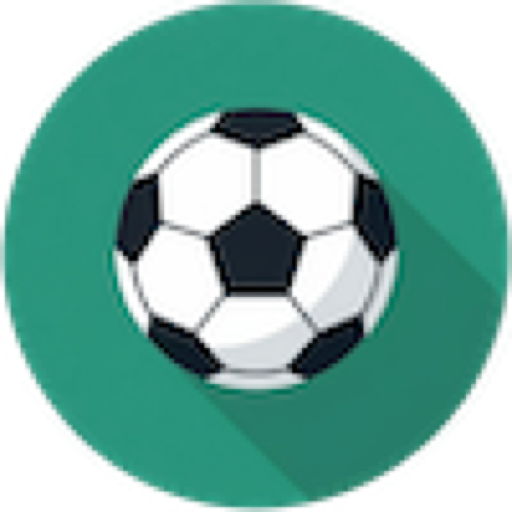
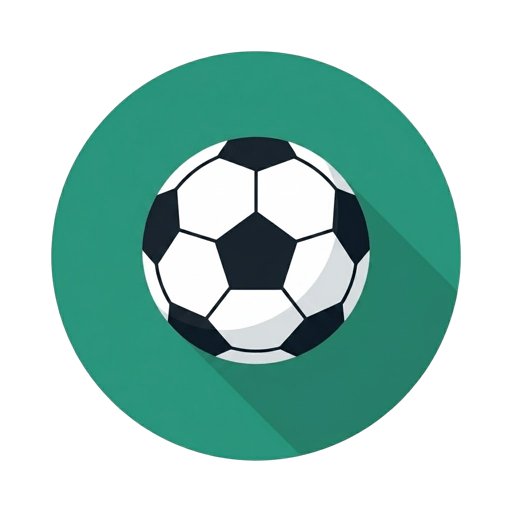
feat: update PWA manifest with screenshots and remove background image from globals.css

diff --git a/src/app/globals.css b/src/app/globals.css
@@ -34,8 +34,7 @@
 
 [data-theme="dark"] body {
   background-image:
-    linear-gradient(rgba(11, 20, 26, 0.85), rgba(11, 20, 26, 0.85)),
-    url('/field_bg.png');
+    linear-gradient(rgba(11, 20, 26, 0.85), rgba(11, 20, 26, 0.85));
   background-size: cover;
   background-position: center;
   background-repeat: no-repeat;